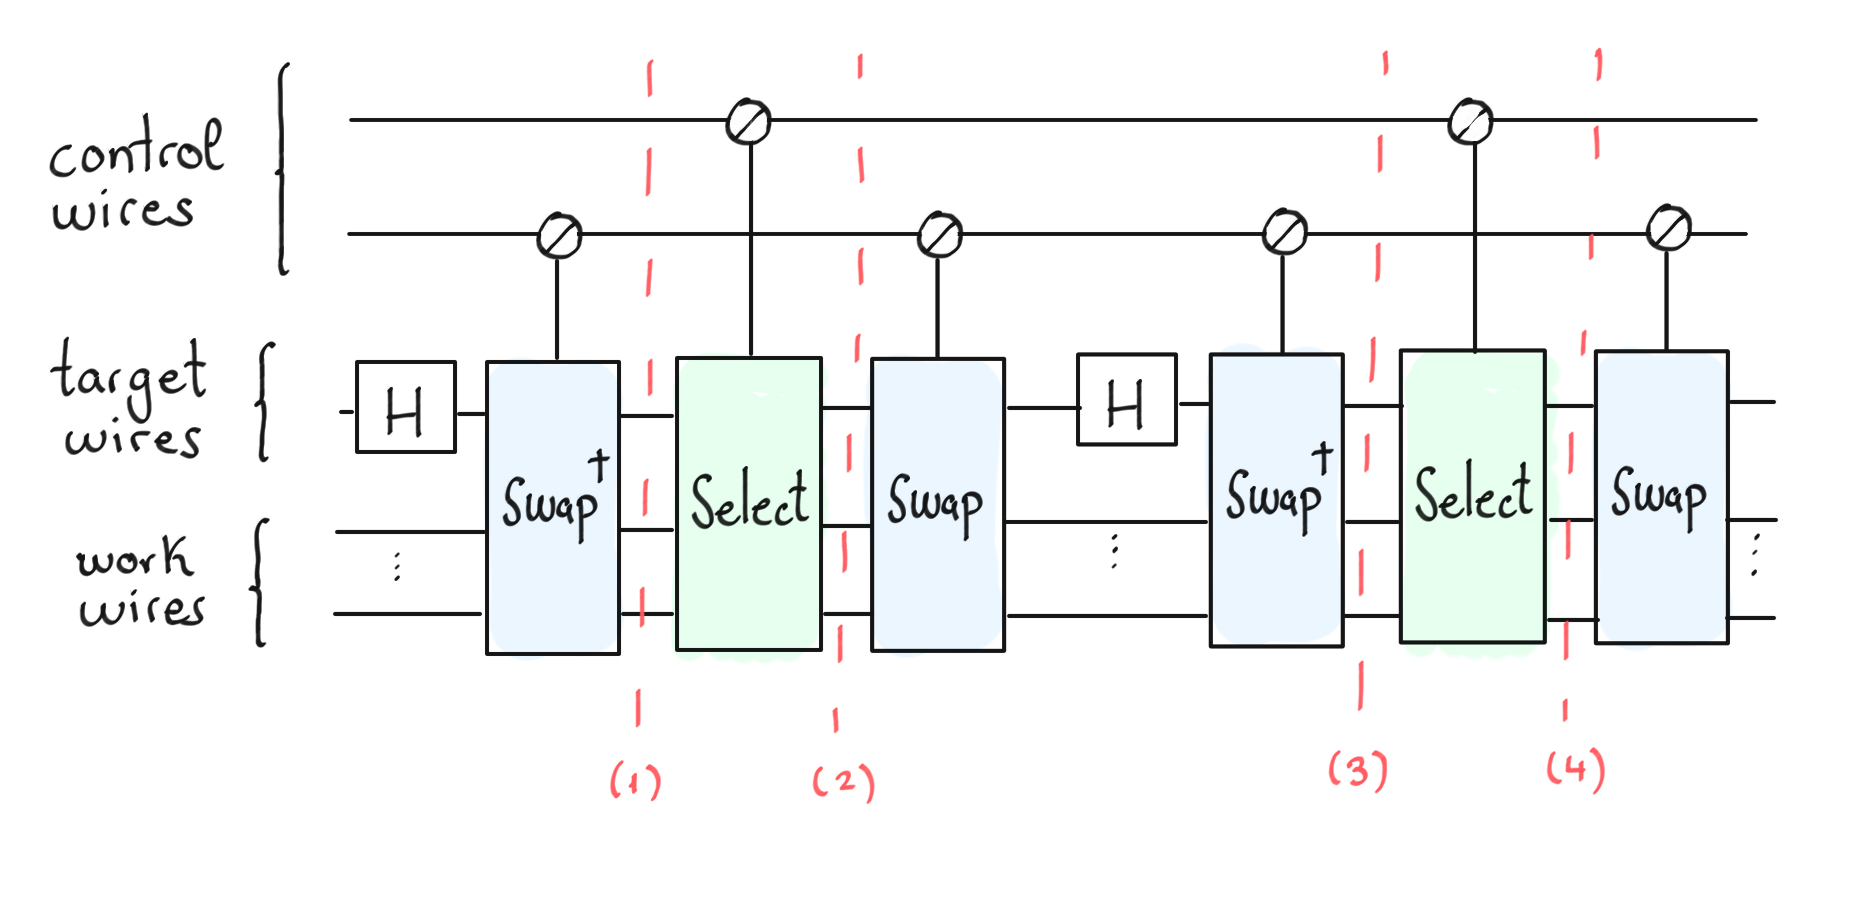
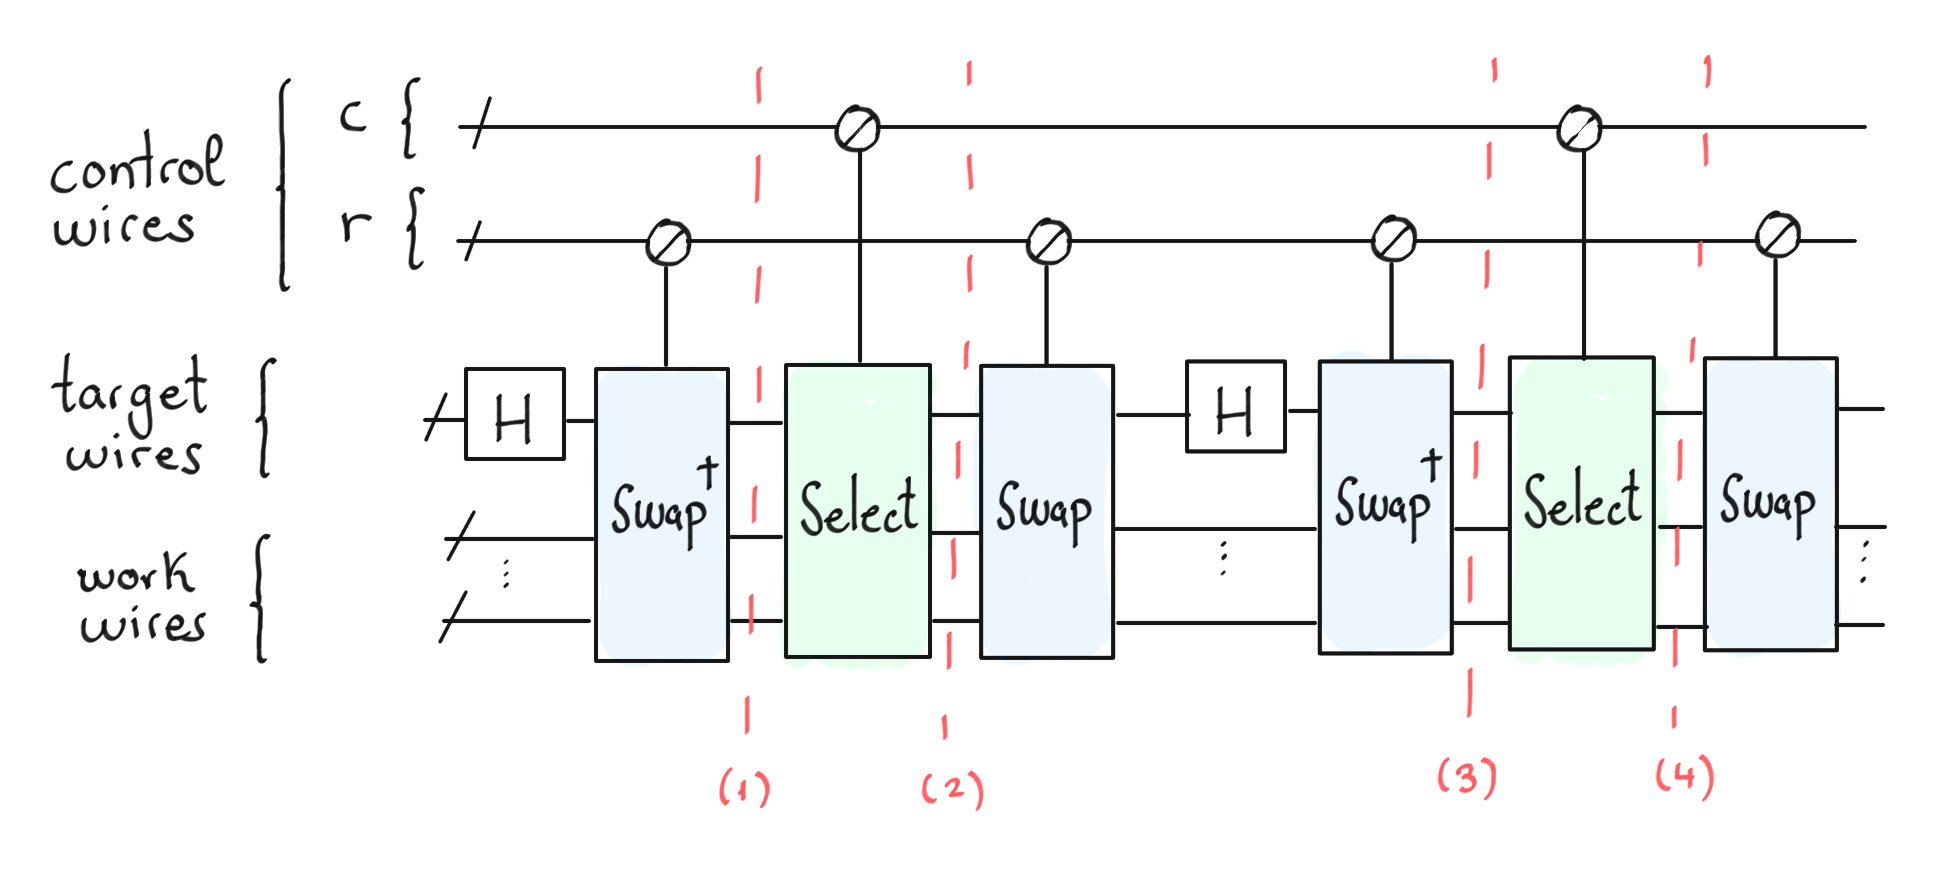
more JM comments

diff --git a/demonstrations/tutorial_intro_qrom.py b/demonstrations/tutorial_intro_qrom.py
@@ -3,7 +3,7 @@ r"""Intro to QROM
 
 Managing data is a crucial task on any computer, and quantum computers are no exception. Efficient data management is vital in quantum machine learning, search algorithms, and state preparation.
 In this demonstration, we will introduce the concept of a Quantum Read-Only Memory (QROM), a data structure designed to load classical data on a quantum computer.
-You will also see how easy it is to use this operator through the :class:`~.pennylane.QROM` template.
+You will also see how easy it is to use this operator in PennyLane through the :class:`~.pennylane.QROM` template.
 
 QROM
 -----
@@ -70,8 +70,8 @@ def circuit(index):
     return qml.sample(wires=target_wires)
 
 ##############################################################################
-# Once we have defined the circuit, we can draw it and check that the outputs are as expected.
-# We will also draw the circuit for the particular case in which we want to know the output of index :math:`011`.
+# Once we have defined the circuit, we can check that the outputs are as expected.
+# We will also draw the circuit for the particular case in which we want to know the output of index :math:`3`.
 # Note that in this case we generate in the control qubits the state :math:`|011\rangle`, representation of the
 # number three in binary.
 
@@ -97,16 +97,15 @@ for i in range(8):
 # The goal of the SelectSwap construction is to trade depth for width. That is, using multiple auxiliary qubits,
 # we reduce the circuit depth required to build the QROM. The main idea is to organize the data in two dimensions,
 # with each bitstring labelled by a column index :math:`c` and a row index :math:`r`.
-# The control qubits of the Select block determine the column :math:`c`, while a
-# swap block is used to detect the row index :math:`r` and swap the data to the
-# the target wires.
+# The control qubits of the Select block determine the column :math:`c`, while the
+# control qubits of the swap block are used to specify the row index :math:`r`.
 #
 # .. figure:: ../_static/demonstration_assets/qrom/select_swap.jpeg
 #    :align: center
 #    :width: 70%
 #    :target: javascript:void(0)
 #
-# Let's look at an example. Let's assume we want to load in the target wires the bitstring with
+# Let's look at an example by assuming we want to load in the target wires the bitstring with
 # the index :math:`5`.
 # For it, we put as input in the control wires the state :math:`|101\rangle` (5 in binary), where the first two bits refer to the
 # index :math:`c = |10\rangle` and the last one to the index :math:`r = |1\rangle`.  After applying the Select block, we
@@ -124,7 +123,7 @@ for i in range(8):
 #    :target: javascript:void(0)
 #
 # Using the same example, we have that :math:`c = |1\rangle` and :math:`r = |01\rangle`. In this case, the columns are
-# determined by a single index but we need two indexes for the rows. We invite you to see that actually :math:`b_5` is
+# determined by a single index but we need two indexes for the rows. We invite you to check that actually :math:`b_5` is
 # loaded in the target wires.
 #
 #
@@ -173,7 +172,8 @@ for i in range(8):
 # Coding a QROM circuit from scratch can be painful, but with the help of PennyLane you can do it in just one line.
 # We are going to encode a longer bitstrings and we will use enough work wires to group four bitstrings per column:
 
-bitstrings = ["01", "11", "11", "10", "01", "11", "11", "00", "01", "11", "11", "11", "01", "00", "11", "00"]
+bitstrings = ["01", "11", "11", "10", "01", "11", "11", "00",
+              "01", "11", "11", "11", "01", "00", "11", "00"]
 
 control_wires = [0, 1, 2, 3]
 target_wires = [4, 5]
